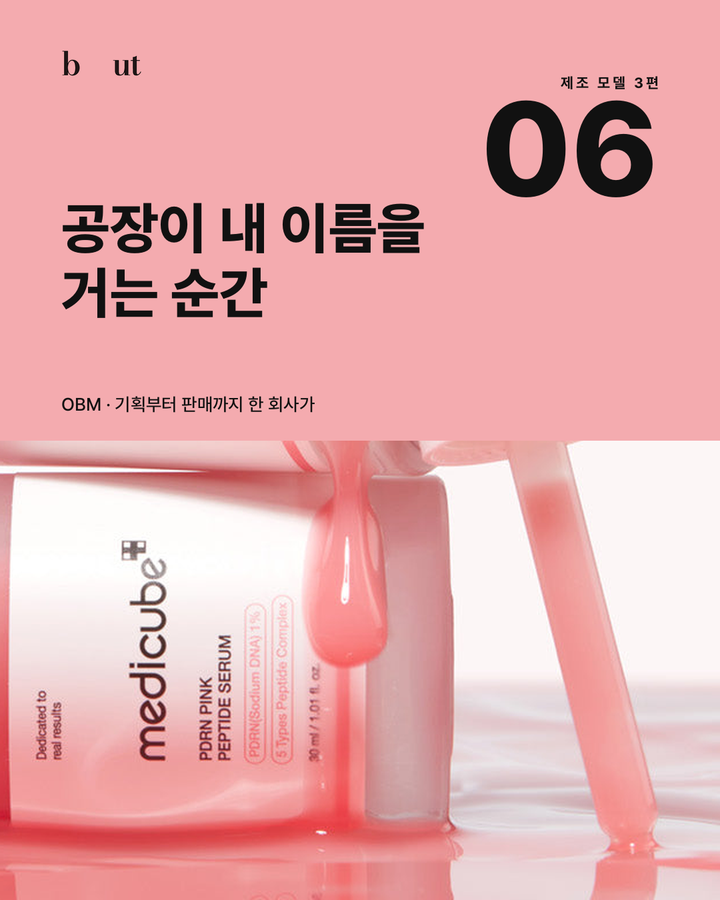
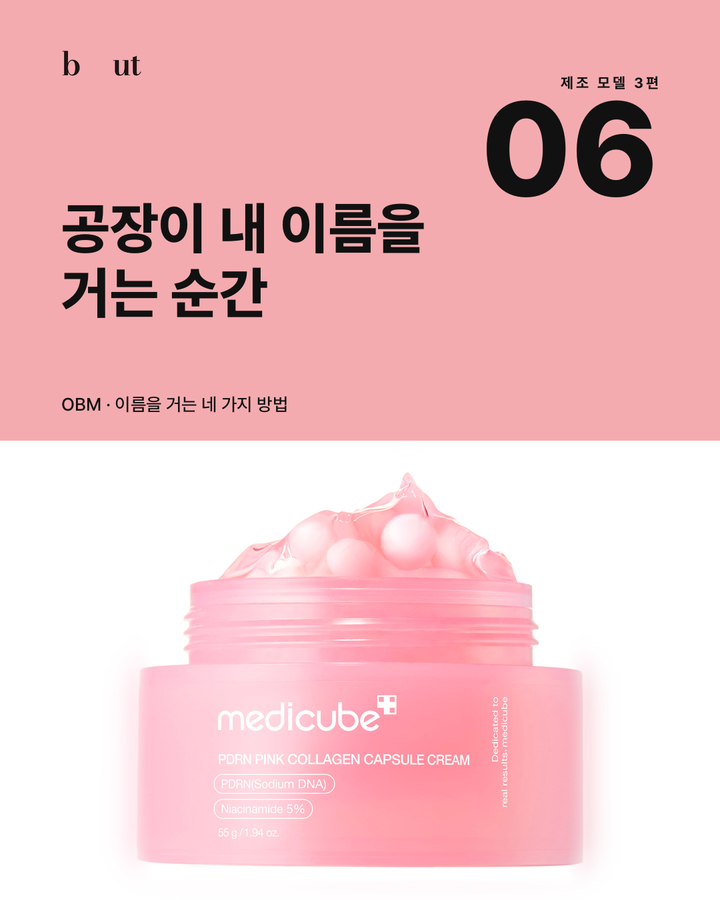
카드뉴스 동기화: beauty-point-06 (2026-11-19 18:37 KST)

diff --git a/app.js b/app.js
@@ -452,10 +452,25 @@ function drawLinesCenter(lines, firstY, gap, size, colorOf) {
 function coverPointBlock(cov) {
   var blockH = Number(cov.block_h || 660);
   var ok = false;
-  if (cov.image) ok = drawCoverCrop(cov.image, 0, blockH, W, H - blockH, cov.focus, cov.focus_y, cov.zoom || 1);
+  if (cov.image) {
+    if (String(cov.fit || 'cover').toLowerCase() === 'contain') {
+      _ctx.fillStyle = WHITE; _ctx.fillRect(0, blockH, W, H - blockH);
+      var im0 = getImage(cov.image);
+      if (imgOk(im0)) {
+        var rr = Math.min(W / im0.naturalWidth, (H - blockH) / im0.naturalHeight);
+        var nw0 = im0.naturalWidth * rr, nh0 = im0.naturalHeight * rr;
+        _ctx.drawImage(im0, (W - nw0) / 2, blockH + (H - blockH - nh0) / 2, nw0, nh0);
+        ok = true;
+      }
+    } else {
+      ok = drawCoverCrop(cov.image, 0, blockH, W, H - blockH, cov.focus, cov.focus_y, cov.zoom || 1);
+    }
+  }
   if (!ok) { _ctx.fillStyle = INK; _ctx.fillRect(0, blockH, W, H - blockH); }
+  var onLight = String(cov.logo_tone || 'white') === 'black';
+  var onBlock = onLight ? INK : WHITE;
   _ctx.fillStyle = cov.block_color || KEY; _ctx.fillRect(0, 0, W, blockH);
-  drawLogo('white', MX, Number(cov.logo_top === undefined ? 74 : cov.logo_top),
+  drawLogo(onLight ? 'black' : 'white', MX, Number(cov.logo_top === undefined ? 74 : cov.logo_top),
     Number(cov.logo_height || 42));
 
   var series = cov.series_name === undefined ? 'BEAUTY POINT' : String(cov.series_name);
@@ -463,7 +478,7 @@ function coverPointBlock(cov) {
     var fs = Number(cov.series_size || 22);
     var sw = trackedW(series, fs, 'bold', 4);
     tracked(series, CR - sw, Number(cov.series_baseline === undefined ? 132 : cov.series_baseline),
-      fs, 'bold', WHITE, 4);
+      fs, 'bold', onBlock, 4);
   }
   var num = cov.num === undefined ? '' : String(cov.num).trim();
   if (num) {
@@ -478,12 +493,12 @@ function coverPointBlock(cov) {
   var lastMax = subBase - Number(cov.sub_gap === undefined ? 74 : cov.sub_gap);
   var first = cov.head_first === undefined
     ? Math.min(420, lastMax - gap * (lines.length - 1)) : Number(cov.head_first);
-  drawLinesLeft(lines, MX, first, gap, size, function (t) { return t === 'key' ? INK : WHITE; });
+  drawLinesLeft(lines, MX, first, gap, size, function (t) { return t === 'key' ? INK : onBlock; });
 
   if (cov.sub) {
     var ss = Number(cov.sub_size || 27);
     while (ss > 20 && measure(cov.sub, ss, 'medium') > CR - MX) ss -= 1;
-    drawText(cov.sub, MX, subBase, ss, 'medium', WHITE, 'ls');
+    drawText(cov.sub, MX, subBase, ss, 'medium', onBlock, 'ls');
   }
 }
 
@@ -1036,7 +1051,7 @@ function pTable(s, headLast) {
   });
   var listTop = headTop + headH;
   var bandH = s.takeaway ? 112 : 0;
-  var avail = CTM - listTop - (bandH ? bandH + 30 : 0);
+  var avail = (s.__limit || CTM) - listTop - (bandH ? bandH + 30 : 0);
   var rowH = avail / Math.max(1, rows.length);
   var boost = Number(spec.key_size_boost === undefined ? 2 : spec.key_size_boost);
   var size = Number(spec.cell_size || 24);
@@ -1094,7 +1109,7 @@ function pCards(s, headLast) {
     if (item && typeof item === 'object') return [String(item.text || ''), String(item.sub || '')];
     return [String(item == null ? '' : item), ''];
   }
-  var limit = CTM - (bandH ? bandH + 34 : 0);
+  var limit = (s.__limit || CTM) - (bandH ? bandH + 34 : 0);
   var need = 0;
   cards.forEach(function (card) {
     var y = 178;
